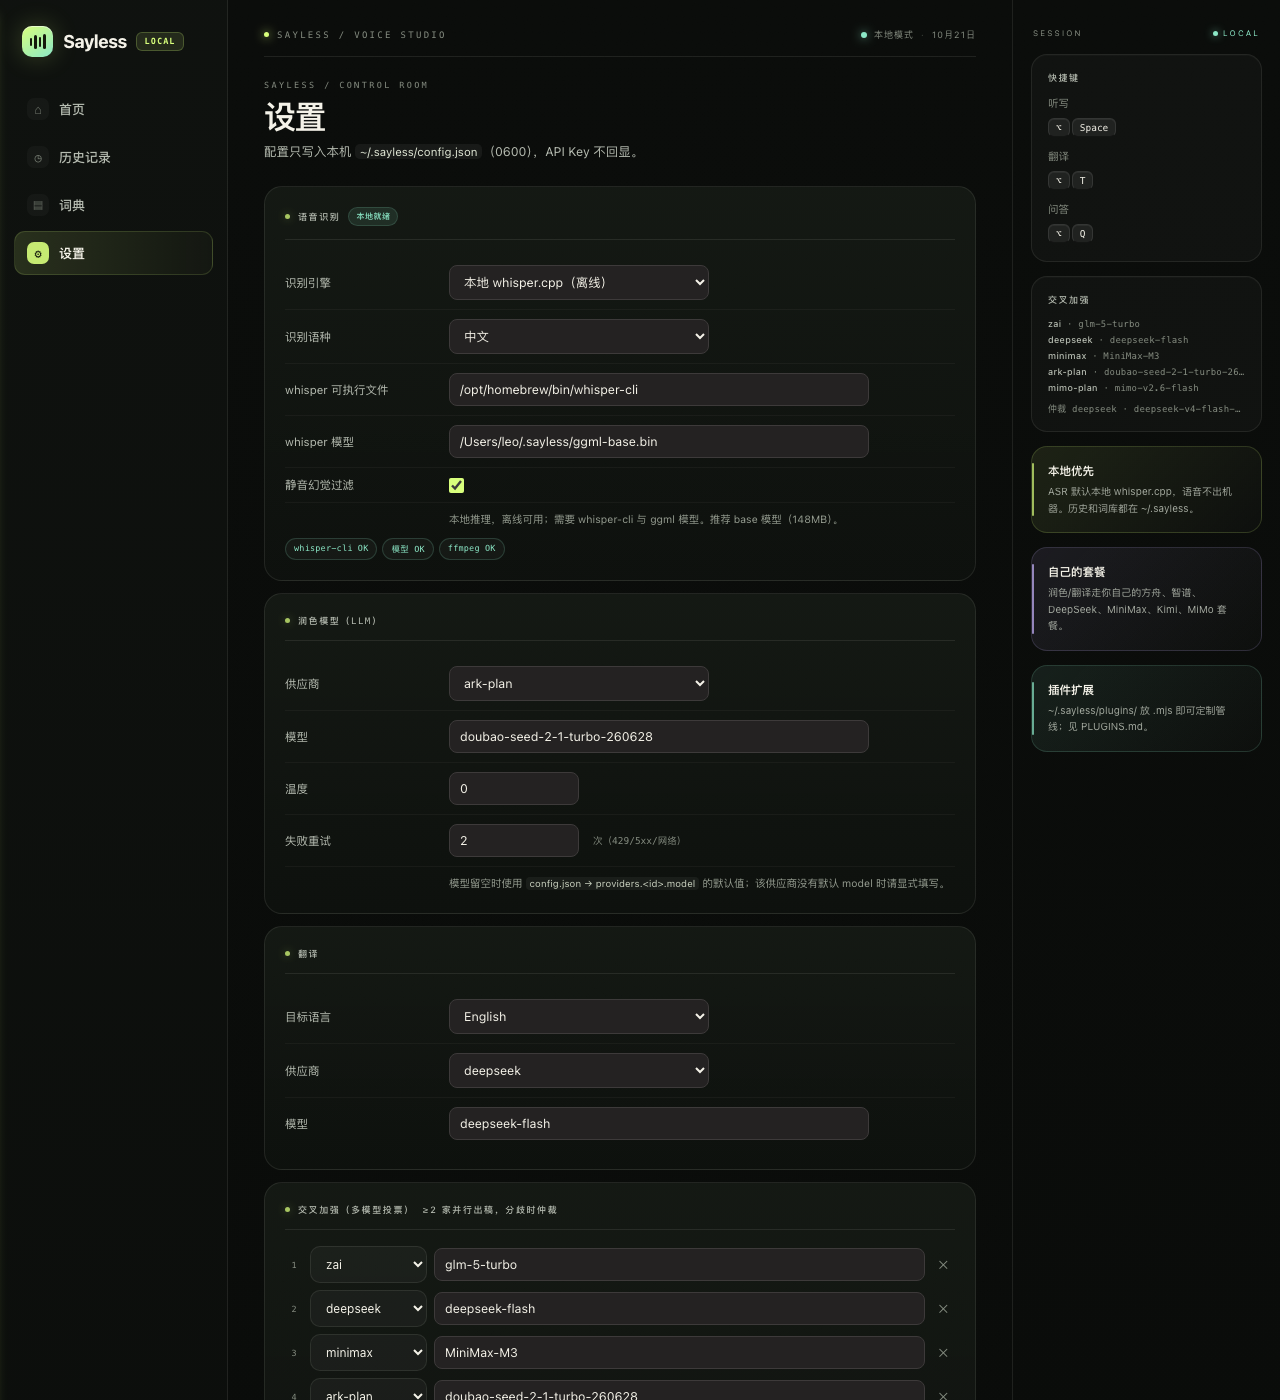
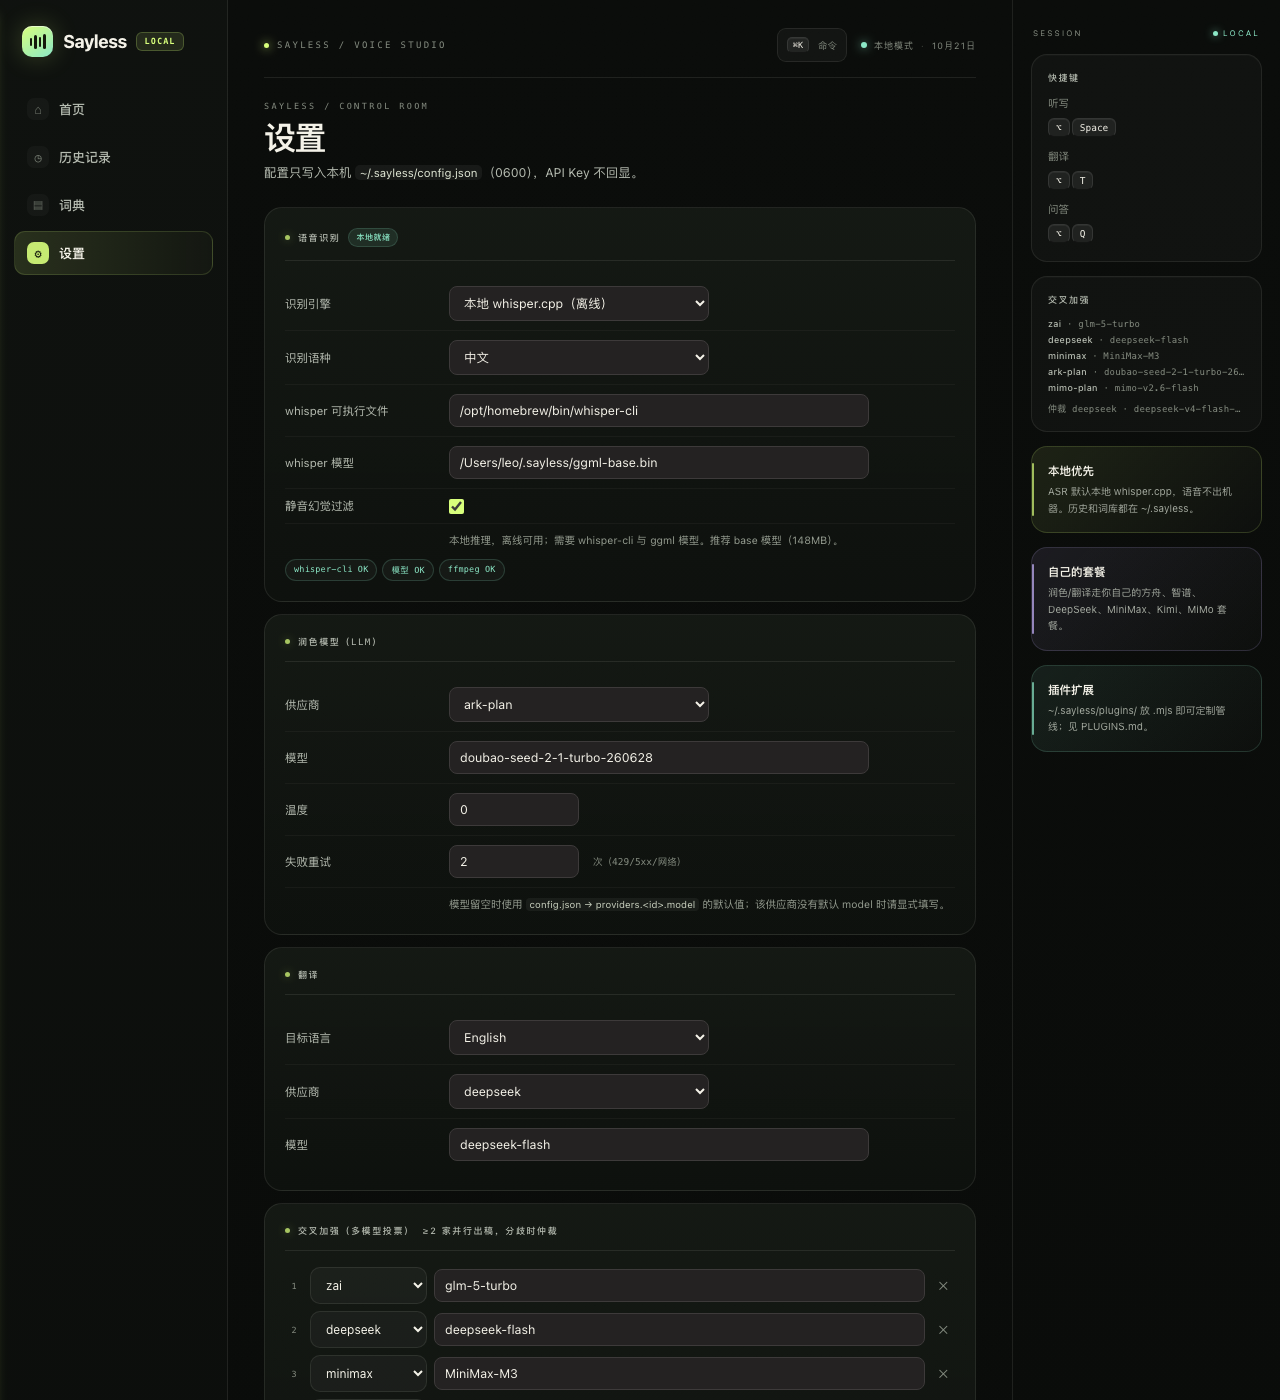
v5.1.0: command palette, keyboard shortcuts and search highlighting
- ⌘K command palette: jump pages, run actions, import/export, doctor, and search-history action for typed queries
- keyboard navigation: ⌘1–4 tabs, / focuses history search, ↑↓/↵/esc inside palette
- history full-search highlighting via safe <mark> rendering of out/raw matches
- top-line ⌘K trigger; palette uses the Studio ink-green/lime visual language
- tests: 72 integration tests incl. palette open/filter Chrome behavior and highlight assertions
- docs: command palette screenshot, README/CHANGELOG, version 5.1.0

diff --git a/app/hub.html b/app/hub.html
@@ -744,6 +744,54 @@ kbd{
   *,*::before,*::after{animation-duration:.001ms!important;animation-iteration-count:1!important;transition-duration:.001ms!important;scroll-behavior:auto!important}
 }
 
+
+/* command palette + keyboard affordances */
+.top-actions{display:flex;align-items:center;gap:14px}
+.cmd-trigger{
+  display:inline-flex;align-items:center;gap:7px;background:rgba(255,255,255,.03);
+  border:1px solid var(--line);border-radius:9px;padding:6px 9px;color:var(--muted);
+  font-size:9.5px;transition:background .16s,color .16s,border-color .16s;
+}
+.cmd-trigger kbd{padding:2px 5px;font-size:8.5px;border-radius:5px}
+.cmd-trigger:hover{background:rgba(255,255,255,.06);color:var(--sub);border-color:var(--line-strong)}
+.cmd{position:fixed;inset:0;z-index:75;display:flex;align-items:flex-start;justify-content:center;padding:13vh 20px 24px;background:rgba(3,4,3,.58);backdrop-filter:blur(10px);-webkit-backdrop-filter:blur(10px)}
+.cmd[hidden]{display:none}
+.cmd-card{
+  width:min(560px,100%);overflow:hidden;border-radius:20px;
+  background:linear-gradient(180deg,rgba(25,31,24,.985),rgba(13,17,13,.985));
+  border:1px solid rgba(216,255,124,.2);
+  box-shadow:0 40px 110px rgba(0,0,0,.66),inset 0 1px 0 rgba(255,255,255,.05);
+  animation:cmdIn .2s cubic-bezier(.22,.7,.25,1);
+}
+@keyframes cmdIn{from{opacity:0;transform:translateY(-8px) scale(.99)}to{opacity:1;transform:none}}
+.cmd-head{display:flex;align-items:center;gap:11px;padding:15px 16px;border-bottom:1px solid var(--line)}
+.cmd-mark{font-family:var(--mono);font-size:9px;letter-spacing:.8px;color:var(--accent);background:rgba(216,255,124,.08);border:1px solid rgba(216,255,124,.17);border-radius:6px;padding:4px 6px;flex-shrink:0}
+#cmd-input{flex:1;min-width:0;background:transparent!important;border:0!important;box-shadow:none!important;padding:4px 0!important;font-size:14px;color:var(--txt);outline:none}
+#cmd-input::placeholder{color:var(--muted)}
+.cmd-head kbd{flex-shrink:0;font-size:8px;letter-spacing:.5px;color:var(--muted);background:transparent;border:0;box-shadow:none;padding:0}
+.cmd-list{padding:7px;max-height:min(340px,45vh);overflow:auto}
+.cmd-item{
+  width:100%;display:flex;align-items:center;gap:11px;background:transparent;border:1px solid transparent;
+  border-radius:10px;padding:9px 10px;color:var(--sub);text-align:left;font-size:12px;
+  transition:background .14s,color .14s,border-color .14s;
+}
+.cmd-item:hover,.cmd-item.on{background:rgba(216,255,124,.075);border-color:rgba(216,255,124,.1);color:var(--txt)}
+.cmd-item .ci{
+  width:22px;height:22px;border-radius:6px;background:rgba(255,255,255,.045);display:grid;place-items:center;
+  font-family:var(--mono);font-size:10px;color:var(--muted);flex-shrink:0;
+}
+.cmd-item.on .ci{background:var(--accent);color:#151a0c}
+.cmd-item .cl{flex:1;min-width:0;overflow:hidden;text-overflow:ellipsis;white-space:nowrap}
+.cmd-item .ch{font-family:var(--mono);font-size:8.5px;letter-spacing:.3px;color:var(--muted);flex-shrink:0}
+.cmd-empty{padding:34px 16px;text-align:center;color:var(--muted);font-size:11px}
+.cmd-foot{display:flex;align-items:center;justify-content:space-between;gap:12px;padding:9px 16px;border-top:1px solid var(--line);font-family:var(--mono);font-size:8px;letter-spacing:.7px;color:var(--muted)}
+mark{background:rgba(216,255,124,.2);color:var(--accent);border-radius:3px;padding:0 1px}
+@media(max-width:620px){
+  .cmd-trigger span{display:none}
+  .cmd-trigger{padding:6px}
+  .cmd{padding:10vh 12px 20px}
+}
+
 </style>
 </head>
 <body>
@@ -765,7 +813,10 @@ kbd{
 <div class="main">
   <div class="topline">
     <div class="eyebrow"><span class="eyebrow-dot"></span>SAYLESS / VOICE STUDIO</div>
-    <div class="topmeta"><span class="live"></span>本地模式<span class="sep">·</span><span id="top-date"></span></div>
+    <div class="top-actions">
+      <button class="cmd-trigger" data-act="open-cmd" title="命令面板（⌘K）"><kbd>⌘K</kbd><span>命令</span></button>
+      <div class="topmeta"><span class="live"></span>本地模式<span class="sep">·</span><span id="top-date"></span></div>
+    </div>
   </div>
   <div class="setup-banner" id="setup-banner" hidden>
     <div class="sb-body">
@@ -1045,6 +1096,17 @@ kbd{
   <div class="grad g"><div class="t">插件扩展</div><div class="d">~/.sayless/plugins/ 放 .mjs 即可定制管线；见 PLUGINS.md。</div></div>
 </aside>
 
+<div class="cmd" id="cmd" hidden>
+  <div class="cmd-card" role="dialog" aria-modal="true" aria-label="命令面板">
+    <div class="cmd-head">
+      <span class="cmd-mark">⌘K</span>
+      <input id="cmd-input" placeholder="搜索页面、操作或历史…" autocomplete="off" spellcheck="false">
+      <kbd>ESC</kbd>
+    </div>
+    <div class="cmd-list" id="cmd-list"></div>
+    <div class="cmd-foot"><span>↑↓ 选择 · ↵ 执行</span><span>SAYLESS STUDIO</span></div>
+  </div>
+</div>
 <div id="toast"></div>
 <div class="modal" id="confirm">
   <div class="modal-card">
@@ -1076,7 +1138,7 @@ var DICT = DATA.dict || {};
 var PROVIDERS = Array.isArray(DATA.providers) ? DATA.providers : [];
 var KEYSTATUS = DATA.providerKeys || {};
 var ENV = DATA.env || {};
-var APP = { tab: DATA.initialTab || 0, histQuery: '', dictQuery: '', capturing: null, reqSeq: 0, pending: {}, historyTotal: 0, searchEntries: null, searchTotal: 0, searchPending: false, searchRid: null, searchTimer: null };
+var APP = { tab: DATA.initialTab || 0, histQuery: '', dictQuery: '', capturing: null, reqSeq: 0, pending: {}, historyTotal: 0, searchEntries: null, searchTotal: 0, searchPending: false, searchRid: null, searchTimer: null, cmdOpen: false, cmdItems: [], cmdIndex: 0 };
 APP.historyTotal = (DATA.stats && DATA.stats.entries) || (DATA.history || []).length;
 var MOD_NAMES = { option: '⌥', command: '⌘', control: '⌃', shift: '⇧', none: '' };
 var MOD_LABELS = { option: 'Option', command: 'Command', control: 'Control', shift: 'Shift', none: '无' };
@@ -1108,6 +1170,19 @@ function esc(s) {
   });
 }
 function attr(s) { return esc(s); }
+function highlightText(text, query) {
+  text = String(text == null ? '' : text);
+  var q = String(query == null ? '' : query).trim();
+  if (!q) return esc(text);
+  var lower = text.toLowerCase(), ql = q.toLowerCase(), out = '', i = 0;
+  while (i < text.length) {
+    var j = lower.indexOf(ql, i);
+    if (j < 0) { out += esc(text.slice(i)); break; }
+    out += esc(text.slice(i, j)) + '<mark>' + esc(text.slice(j, j + q.length)) + '</mark>';
+    i = j + q.length;
+  }
+  return out;
+}
 function num(v, d) { var n = Number(v); return Number.isFinite(n) ? n : d; }
 function fmt(n) { return Number(n || 0).toLocaleString('zh-CN'); }
 function fmtBytes(n) {
@@ -1382,13 +1457,13 @@ function histRow(e) {
   }
   actions += '<button class="iconbtn danger" data-act="del-hist" data-ts="' + attr(e.ts) + '" title="删除">✕</button>';
   var detail = '<div class="hist-detail" hidden>' +
-    '<div><div class="hd-label">ASR 原文</div><pre class="hd-pre">' + esc(e.raw || '（无原文记录）') + '</pre></div>' +
+    '<div><div class="hd-label">ASR 原文</div><pre class="hd-pre">' + highlightText(e.raw || '（无原文记录）', APP.histQuery) + '</pre></div>' +
     '<div class="hd-meta">' + timingText(e.timings) + (e.app ? ' · 应用 ' + esc(e.app) : '') + (rec ? ' · 录音 ' + esc(rec) : '') + '</div>' +
     '</div>';
   return '<div class="hist-row" data-ts="' + attr(e.ts) + '">' +
     '<div class="hist-time">' + esc(timeLabel(e.ts)) + '</div>' +
     '<div><span class="mode ' + m.cls + '">' + esc(m.text) + '</span></div>' +
-    '<div class="hist-body"><div class="hist-text">' + esc(e.out || '') + '</div>' +
+    '<div class="hist-body"><div class="hist-text">' + highlightText(e.out || '', APP.histQuery) + '</div>' +
     (e.app ? '<div class="hist-app">应用 · ' + esc(e.app) + '</div>' : '') +
     '</div>' +
     '<div class="hist-actions">' + actions + '</div>' +
@@ -1845,6 +1920,67 @@ function onCaptureKey(e) {
   toast('已改为 ' + hotkeyText(next) + '，保存后重启 App 生效', 'warn');
 }
 
+
+/* ---------- 命令面板 ---------- */
+function commandItems(query) {
+  var q = String(query == null ? '' : query).trim();
+  var items = [
+    { ico:'⌂', label:'首页', hint:'⌘1', run:function () { go(0); } },
+    { ico:'◷', label:'历史记录', hint:'⌘2', run:function () { go(1); } },
+    { ico:'▤', label:'词典', hint:'⌘3', run:function () { go(2); } },
+    { ico:'⚙', label:'设置', hint:'⌘4', run:function () { go(3); } },
+    { ico:'●', label:'开始听写', hint:'⌥Space', run:function () { post({ action:'triggerDictate' }); } },
+    { ico:'↗', label:'打开数据目录', hint:'', run:function () { post({ action:'openDataDir' }); } },
+    { ico:'⇣', label:'导出历史', hint:'JSON', run:function () { post({ action:'exportHistory' }); } },
+    { ico:'⇣', label:'导出词库', hint:'JSON', run:function () { post({ action:'exportDict' }); } },
+    { ico:'⇡', label:'导入词库', hint:'JSON', run:function () { post({ action:'importDict' }); } },
+    { ico:'◎', label:'运行体检', hint:'doctor', run:function () { go(3); setTimeout(runDoctor, 120); } }
+  ];
+  if (q) {
+    var ql = q.toLowerCase();
+    items = items.filter(function (it) { return (it.label + ' ' + (it.hint || '')).toLowerCase().indexOf(ql) >= 0; });
+    items.push({ ico:'⌕', label:'在历史中搜索「' + q + '」', hint:'↵', run:function () {
+      var v = q; go(1);
+      var inp = $('#hist-search'); if (inp) inp.value = v;
+      onHistSearch(v);
+    }});
+  }
+  return items.slice(0, 9);
+}
+function renderCommandList() {
+  var items = APP.cmdItems = commandItems($('#cmd-input').value);
+  if (APP.cmdIndex >= items.length) APP.cmdIndex = 0;
+  $('#cmd-list').innerHTML = items.length ? items.map(function (it, i) {
+    return '<button class="cmd-item' + (i === APP.cmdIndex ? ' on' : '') + '" data-cmd-i="' + i + '">' +
+      '<span class="ci">' + esc(it.ico) + '</span><span class="cl">' + esc(it.label) + '</span>' +
+      '<span class="ch">' + esc(it.hint || '') + '</span></button>';
+  }).join('') : '<div class="cmd-empty">没有匹配的命令。试着输入「导出」「设置」或一段历史关键词。</div>';
+}
+function closeCommandPalette() {
+  var el = $('#cmd');
+  if (el) el.hidden = true;
+  APP.cmdOpen = false;
+}
+function openCommandPalette() {
+  var el = $('#cmd');
+  if (!el) return;
+  APP.cmdOpen = true;
+  APP.cmdIndex = 0;
+  el.hidden = false;
+  $('#cmd-input').value = '';
+  renderCommandList();
+  setTimeout(function () { $('#cmd-input').focus(); }, 0);
+}
+function runCommand(index) {
+  var it = (APP.cmdItems || [])[index];
+  if (!it) return;
+  closeCommandPalette();
+  setTimeout(function () { try { it.run(); } catch (e) { toast('命令执行失败', 'warn'); } }, 0);
+}
+window.openCommandPalette = openCommandPalette;
+window.closeCommandPalette = closeCommandPalette;
+window.runCommand = runCommand;
+
 /* ---------- 事件 ---------- */
 document.addEventListener('click', function (e) {
   var nav = e.target.closest('.nav a');
@@ -1852,6 +1988,7 @@ document.addEventListener('click', function (e) {
   var btn = e.target.closest('[data-act]');
   if (!btn) return;
   var act = btn.getAttribute('data-act');
+  if (act === 'open-cmd') { openCommandPalette(); return; }
   if (act === 'go-settings') return go(3);
   if (act === 'go-history') return go(1);
   if (act === 'new-dictate') { post({ action: 'triggerDictate' }); return; }
@@ -2007,6 +2144,46 @@ document.addEventListener('click', function (e) {
   }
 });
 $('#hist-search').addEventListener('input', function (e) { onHistSearch(e.target.value || ''); });
+$('#cmd-input').addEventListener('input', function () { APP.cmdIndex = 0; renderCommandList(); });
+$('#cmd-list').addEventListener('click', function (e) {
+  var b = e.target.closest('[data-cmd-i]');
+  if (b) runCommand(Number(b.getAttribute('data-cmd-i')));
+});
+$('#cmd').addEventListener('click', function (e) {
+  if (e.target && e.target.id === 'cmd') closeCommandPalette();
+});
+document.addEventListener('keydown', function (e) {
+  if (APP.cmdOpen) {
+    if (e.key === 'Escape') { e.preventDefault(); closeCommandPalette(); return; }
+    if (e.key === 'ArrowDown' || e.key === 'ArrowUp') {
+      e.preventDefault();
+      var n = (APP.cmdItems || []).length;
+      if (!n) return;
+      APP.cmdIndex = (APP.cmdIndex + (e.key === 'ArrowDown' ? 1 : n - 1)) % n;
+      renderCommandList();
+      var active = $('#cmd-list .cmd-item.on');
+      if (active && active.scrollIntoView) active.scrollIntoView({ block: 'nearest' });
+      return;
+    }
+    if (e.key === 'Enter') { e.preventDefault(); runCommand(APP.cmdIndex); return; }
+  }
+  if ((e.metaKey || e.ctrlKey) && (e.key === 'k' || e.key === 'K')) {
+    e.preventDefault();
+    if (APP.cmdOpen) closeCommandPalette(); else openCommandPalette();
+    return;
+  }
+  if (e.metaKey && !e.ctrlKey && !e.altKey && !APP.capturing && /^[1-4]$/.test(e.key)) {
+    e.preventDefault();
+    go(Number(e.key) - 1);
+    return;
+  }
+  var tag = String((e.target && e.target.tagName) || '').toLowerCase();
+  var typing = tag === 'input' || tag === 'textarea' || tag === 'select' || (e.target && e.target.isContentEditable);
+  if (e.key === '/' && APP.tab === 1 && !APP.capturing && !typing) {
+    e.preventDefault();
+    $('#hist-search').focus();
+  }
+});
 $('#dict-filter').addEventListener('input', function (e) { APP.dictQuery = e.target.value || ''; filterDictRows(); });
 $('#s-asr-adapter').addEventListener('change', function () { updateAsrHint(); renderStatus(); });
 document.addEventListener('change', function (e) {
@@ -2048,6 +2225,7 @@ window.addEventListener('beforeunload', function () {
 
 /* ---------- 启动 ---------- */
 function go(tab) {
+  if (APP.cmdOpen) closeCommandPalette();
   if (APP.capturing) stopCapture();
   APP.tab = tab;
   $$('.tab').forEach(function (t, i) { t.classList.toggle('on', i === tab); });

diff --git a/app/SaylessBar.swift b/app/SaylessBar.swift
@@ -1,4 +1,4 @@
-// SaylessBar v5.0 — Typeless 式 UI：菜单栏 + 录音胶囊浮窗 + 数据驱动 hub（首页/历史/词典/设置）。
+// SaylessBar v5.1 — Typeless 式 UI：菜单栏 + 录音胶囊浮窗 + 数据驱动 hub（首页/历史/词典/设置）。
 // 设计：暗色 HUD 胶囊 440×52 底部居中；录音=实时 15 根电平条；处理=Thinking；完成=✓+文本预览自隐。
 import AppKit
 import Carbon.HIToolbox
@@ -345,7 +345,7 @@ final class CapsulePanel {
 
 
 // ---------- 共享路径 / 工具 ----------
-let appVersion = (Bundle.main.infoDictionary?["CFBundleShortVersionString"] as? String) ?? "5.0.0"
+let appVersion = (Bundle.main.infoDictionary?["CFBundleShortVersionString"] as? String) ?? "5.1.0"
 let functionKeyCodes: Set<UInt32> = [122, 120, 99, 118, 96, 97, 98, 100, 101, 109, 103, 111] // F1-F12
 let saylessConfigFile = saylessDataDir + "/config.json"
 let saylessDictFile = saylessDataDir + "/dictionary.json"

diff --git a/README.md b/README.md
@@ -2,7 +2,7 @@
 
 > ⚠ **声明**：本项目是对 Typeless 应用进行**逆向工程的学习项目**，交互形态按 1:1 复刻仅作学习研究之用，**切勿用于任何商业用途**（详见 [LICENSE](LICENSE)）。与 Typeless 原开发者无任何隶属或授权关系。
 
-**本地优先的中文语音听写 / 翻译 / 问答管线**——录音 → 语音识别 → 词语库 → 多模型润色 → 粘贴进焦点应用，配上一个 Typeless 风格的菜单栏 App。当前版本 **v5.0.0**（见 [CHANGELOG](CHANGELOG.md)）。
+**本地优先的中文语音听写 / 翻译 / 问答管线**——录音 → 语音识别 → 词语库 → 多模型润色 → 粘贴进焦点应用，配上一个 Typeless 风格的菜单栏 App。当前版本 **v5.1.0**（见 [CHANGELOG](CHANGELOG.md)）。
 
 干净的自研实现（不含任何第三方听写应用代码），模型走**你自己的套餐**，词语库和听写历史全部本地。
 
@@ -24,6 +24,8 @@
 | **词典：替换 / 热词 / 风格规则 / 分应用词层** | **设置：ASR / 模型 / 交叉阵容 / Ask / 行为** |
 | ![词典](docs/screenshots/hub-dict.png) | ![设置上](docs/screenshots/hub-settings-top.png) |
 
+<p align="center"><img src="docs/screenshots/hub-command.png" width="920" alt="⌘K 命令面板"></p>
+
 <p align="center"><img src="docs/screenshots/hub-settings-bottom.png" width="920" alt="设置下：快捷键录制 / API Key / 体检 / 关于"></p>
 
 ## 特性一览
@@ -34,7 +36,7 @@
 - **个性化词语库**：专有名词保护、确定性替换、风格规则、按前台应用自动叠加分应用词层；hub 里可增删改
 - **自我学习**：`sayless learn` 用 LCS 智能 diff 自动生成词条，`--mine --apply` 把高频修正回写词库
 - **完全可定制**：`~/.sayless/plugins/` 放一个 `.mjs` 即可接管管线任意环节（见 [PLUGINS.md](PLUGINS.md)）
-- **菜单栏面板（hub）**：数据驱动的四页 UI——洞察统计 + 贡献热力图 / 可搜索历史（复制、**▶ 回放**、**↻ 重转写**、删除、清空；界面最多加载最近 1000 条，统计按全部历史）/ 可视化词典（替换、热词、风格规则、分应用词层）/ 完整设置页（ASR、模型、交叉阵容、Ask、行为、快捷键录制、Key 写入、一键体检）
+- **菜单栏面板（hub）**：数据驱动的四页 UI——洞察统计 + 26 周热力图 / 可搜索历史（**全量深度搜索 + 分页加载 + 命中高亮**、复制、回放、重转写、删除、清空、导出 JSON）/ 可视化词典（替换、热词、风格规则、分应用词层）/ 完整设置页（ASR、模型、交叉阵容、Ask、行为、快捷键录制、Key 写入、一键体检）；**⌘K 命令面板**可跳页、执行操作或直接搜索历史，⌘1–4 切页，`/` 聚焦搜索
 - **可靠性**：LLM 429/5xx 自动重试、录音结束才进入转写、配置原子写入、空识别非零退出、粘贴后恢复剪贴板（App 用 NSPasteboard 快照恢复文本/图片/文件；CLI 为文本级）；麦克风权限预检、UserNotifications 原生通知、词典/历史写入失败不再假成功
 
 ```mermaid
@@ -267,7 +269,7 @@ flowchart LR
 ## 开发与测试
 
 ```sh
-npm test                     # 71 个 Node 集成测试：CLI 管线 / 交叉投票 / 重试 / 词典 / learn / history / hub
+npm test                     # 72 个 Node 集成测试：CLI 管线 / 交叉投票 / 重试 / 词典 / learn / history / hub
 npm run check                # node --check + 完整测试
 BUILD_ONLY=1 ./app/build.sh  # 只编译打包 App（不装 /Applications、不启动）
 node tools/gen-hub-demo.mjs /tmp/hub-demo  # Chrome headless 渲染 hub 四页截图 + DOM js-error 检查

diff --git a/CHANGELOG.md b/CHANGELOG.md
@@ -1,5 +1,21 @@
 # Changelog
 
+## v5.1.0 (2026-10-21)
+
+以「键盘优先 + 检索可读性」为主的 hub 体验迭代。
+
+### Hub
+
+- **⌘K 命令面板**：统一入口搜索/执行页面跳转、开始听写、打开数据目录、导入/导出词库与历史、运行体检；输入关键词时自动出现「在历史中搜索」动作。
+- **键盘导航**：⌘1–4 切换四页，`/` 聚焦历史搜索；命令面板支持 ↑↓ / ↵ / esc。
+- **历史命中高亮**：全量搜索结果中的原文、结果和 ASR 原文用酸橙 `<mark>` 标出，长文本更容易定位。
+- 顶部栏增加 ⌘K 触发按钮；命令面板沿用 Studio 视觉（墨绿玻璃、酸橙选中态）。
+
+### Tests / Docs
+
+- 72 个 Node 集成测试：新增命令面板打开 + 过滤的 Chrome 行为测试，并扩展历史搜索高亮断言。
+- 新增命令面板截图；README / CHANGELOG 更新到 v5.1.0。
+
 ## v5.0.0 (2026-10-21)
 
 「Sayless Studio」视觉重构：功能与数据格式不变，只重做观感与信息层次。
